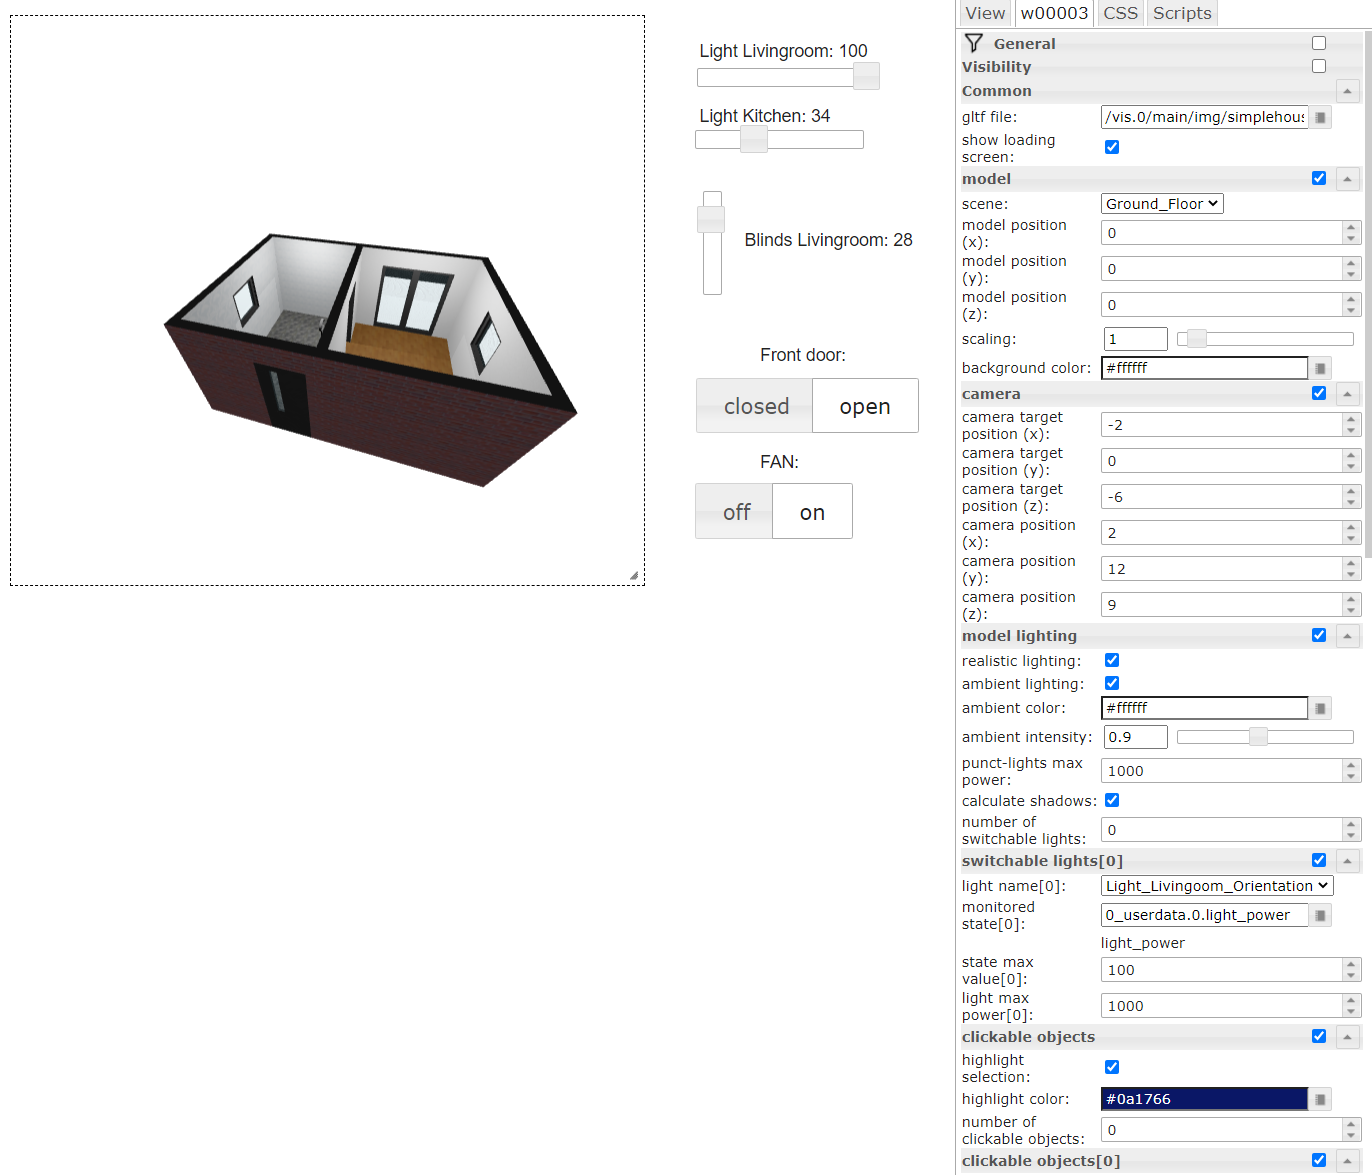
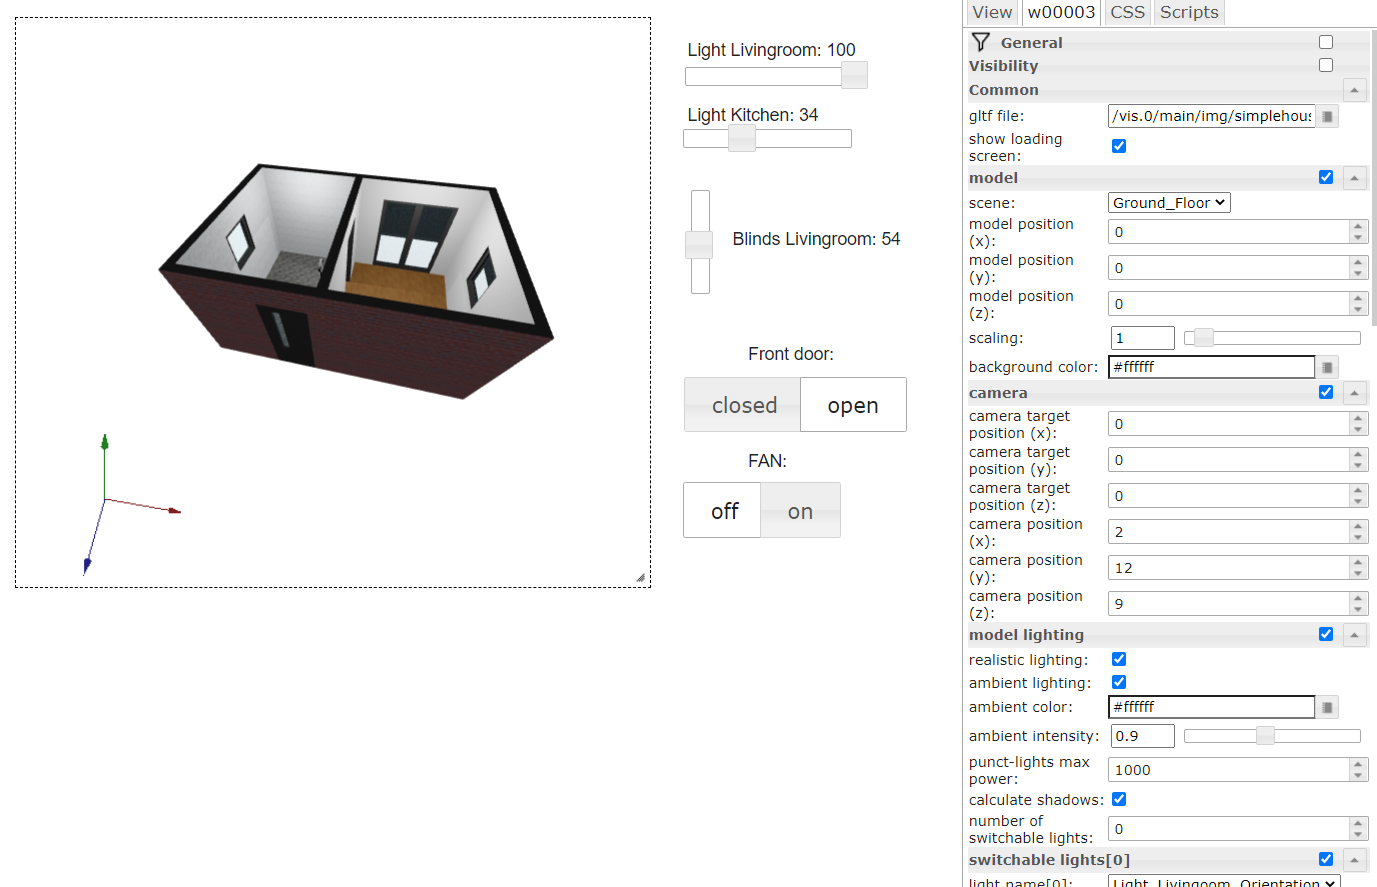
chore: release v0.0.6
Added 3d-axis in edit-mode to ease model positioning

diff --git a/widgets/vis-3dmodel/js/threejs-model.js b/widgets/vis-3dmodel/js/threejs-model.js
@@ -8,7 +8,7 @@ let mouse;
 
 // eslint-disable-next-line no-unused-vars
 class ThreeJSModel {
-    constructor (container, showLoader, logger) {
+    constructor(container, showLoader, logger, editMode) {
         this.container = container;
         this.clickableObjects = [];
         this.allObjects = [];
@@ -20,6 +20,7 @@ class ThreeJSModel {
         this.showLoader = showLoader;
         this.logger = logger;
         this.threeJsVersion = THREE.REVISION;
+        this.editMode = editMode;
     }
 
     setupScene (bgColor, highlightSelected, highlightColor, enableRealisticLighting) {
@@ -38,8 +39,27 @@ class ThreeJSModel {
 
         this.container.appendChild(this.renderer.domElement);
 
-        // this.container.addEventListener('mousemove', (event) => {console.log(event);console.log(this)}, false);
-        // this.container.addEventListener('mousemove', (that) => this._onMouseMove());
+        // add Arrow renderer (overlay), thanks to http://jsfiddle.net/b97zd1a3/16/
+        if (this.editMode) {
+            this.arrowOverlay = { "width": 160, "height": 160 };
+
+            this.arrowRenderer = new THREE.WebGLRenderer({ "alpha": true });
+            this.arrowRenderer.setClearColor(0x000000, 0);
+            this.arrowRenderer.setSize(this.arrowOverlay.width, this.arrowOverlay.height);
+
+            const arrowCanvas = this.container.appendChild(this.arrowRenderer.domElement);
+            arrowCanvas.setAttribute("class", "vis_3dmodel_arrowCanvas");
+            arrowCanvas.style.width = this.arrowOverlay.width;
+            arrowCanvas.style.height = this.arrowOverlay.height;
+
+            this.arrowScene = new THREE.Scene();
+            const arrowPos = new THREE.Vector3(0, 0, 0);
+            const arrowLegth = 120;
+            this.arrowScene.add(new THREE.ArrowHelper(new THREE.Vector3(1, 0, 0), arrowPos, arrowLegth, 0x7F2020, 20, 10));
+            this.arrowScene.add(new THREE.ArrowHelper(new THREE.Vector3(0, 1, 0), arrowPos, arrowLegth, 0x207F20, 20, 10));
+            this.arrowScene.add(new THREE.ArrowHelper(new THREE.Vector3(0, 0, 1), arrowPos, arrowLegth, 0x20207F, 20, 10));
+        }
+
         this.container.addEventListener("mousemove", this._onMouseMove.bind(this), false);
         this.container.addEventListener("click", this._onMouseClick.bind(this), false);
 
@@ -55,6 +75,11 @@ class ThreeJSModel {
     setupView (cameraPosX, cameraPosY, cameraPosZ, cameraTargetPosX, cameraTargetPosY, cameraTargetPosZ) {
         this.camera = new THREE.PerspectiveCamera(100, $(this.container).innerWidth() / $(this.container).innerHeight(), 1, 100);
         this.camera.position.set(parseFloat(cameraPosX), parseFloat(cameraPosY), parseFloat(cameraPosZ));
+
+        if (this.editMode) {
+            this.arrowCamera = new THREE.PerspectiveCamera(50, this.arrowOverlay.width / this.arrowOverlay.height, 1, 1000);
+            this.arrowCamera.up = this.camera.up; // important!
+        }
 
         this.controls = new THREE.OrbitControls(this.camera, this.renderer.domElement);
         this.controls.target.set(parseFloat(cameraTargetPosX), parseFloat(cameraTargetPosY), parseFloat(cameraTargetPosZ));
@@ -118,6 +143,10 @@ class ThreeJSModel {
 
             this.scene.add(model);
             this.currentScene = model.name;
+
+            // add AxesHelper, if needed, deprecated in favour of custom arrow-overlay
+            // if (this.enableAxesHelper)
+            //    this.scene.add(new THREE.AxesHelper(100));
 
             // load objects
             // this.listObjects(this.scene.children[2], this.allObjects, this.lights);
@@ -379,6 +408,17 @@ class ThreeJSModel {
 
         this.controls.update();
         this.renderer.render(this.scene, this.camera);
+
+        if (this.editMode) {
+            // Copy current view position of main camera to camera of arrow-overlay
+            this.arrowCamera.position.copy(this.camera.position);
+            this.arrowCamera.position.sub(this.controls.target);
+            this.arrowCamera.position.setLength(300);
+
+            this.arrowCamera.lookAt(this.arrowScene.position);
+
+            this.arrowRenderer.render(this.arrowScene, this.arrowCamera);
+        }
     }
 
     setEmissiveness (object) {

diff --git a/widgets/vis-3dmodel/js/3dmodel.js b/widgets/vis-3dmodel/js/3dmodel.js
@@ -20,7 +20,7 @@ const stateDefinitions = [];
 
 // this code can be placed directly in vis-3dmodel.html
 vis.binds["3dmodel"] = {
-    "version": "0.0.5",
+    "version": "0.0.6",
     "logger": [],
     "models": [],
     "showVersion": function () {
@@ -92,7 +92,7 @@ vis.binds["3dmodel"] = {
         $div.on("resize", _onContainerResize);
         container.addEventListener("resize", _onContainerResize);
 
-        const model = new ThreeJSModel(container, data.show_loader, logger);
+        const model = new ThreeJSModel(container, data.show_loader, logger, vis.editMode);
         this.models[widgetID] = model;
         model.setupScene(data.background_color, data.highlight_selected, data.highlight_color, data.enable_realistic_lighting);
 

diff --git a/widgets/vis-3dmodel/css/style.css b/widgets/vis-3dmodel/css/style.css
@@ -3,6 +3,13 @@
     font-style: italic;
 }
 
+.vis_3dmodel_arrowCanvas {
+    position: absolute;
+    left: 0px;
+    bottom: 0px;
+    z-index: 100;
+}
+
 /* In Chrome hide border around model */
 canvas { 
     outline: none; 

diff --git a/CHANGELOG.md b/CHANGELOG.md
@@ -3,6 +3,9 @@
 	Placeholder for the next version (add instead of version-number-headline below):
 	## __WORK IN PROGRESS__
 -->
+## 0.0.6 (2021-02-19)
+* Added 3d-axis in edit-mode to ease model positioning
+
 ## 0.0.5 (2021-02-18)
 * Updated ThreeJS from r121 to r125
 * Improved dependency management
